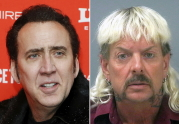
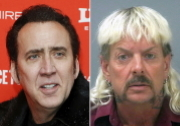
added subsampling

diff --git a/main2.py b/main2.py
@@ -15,14 +15,60 @@ def rgb2yuv(rgb):
     return yuv
 
 
-# step 0 : load image in float values
-image = py.imread('cageSmall.jpeg').astype(np.float)
-print("rgb", image[0][0])
+def chromasubsampling(scheme, yuv):
+    if len(yuv) % 2 != 0 or len(yuv[0]) % 2 != 0:
+        print("dims", len(yuv), len(yuv[0]))
+        print("please use image with even dimensions")
+        exit(1)
+    y = np.zeros((len(yuv), len(yuv[0])))
+    u = np.zeros((len(yuv), len(yuv[0])))
+    v = np.zeros((len(yuv), len(yuv[0])))
+    for i, line in enumerate(yuv):
+        for j, triplet in enumerate(line):
+            y[i][j] = (triplet[0])
+            u[i][j] = (triplet[1])
+            v[i][j] = (triplet[2])
+    print("--")
+    print("u avant", u[0][0], u[0][1], u[0][2], u[0][3], u[0][4], u[0][5], u[0][6], u[0][7])
+    print("u avant", u[1][0], u[1][1], u[1][2], u[1][3], u[1][4], u[1][5], u[1][6], u[1][7])
+    # https://medium.com/@sddkal/chroma-subsampling-in-numpy-47bf2bb5af83
+    if scheme == 420:
+        u[1::2, :] = u[::2, :]
+        u[:, 1::2] = u[:, ::2]
+        v[1::2, :] = v[::2, :]
+        v[:, 1::2] = v[:, ::2]
+    elif scheme == 422:
+        u[:, 1::2] = u[:, ::2]
+        v[:, 1::2] = v[:, ::2]
+    elif scheme == 410:
+        u[1::2, :] = u[::2, :]
+        v[1::2, :] = v[::2, :]
+    elif scheme == 444:
+        print("444 scheme, no subsampling")
+    else:
+        print("wrong value of subsampling scheme")
+        exit(-1)
+    print("u apres", u[0][0], u[0][1], u[0][2], u[0][3], u[0][4], u[0][5], u[0][6], u[0][7])
+    print("u apres", u[1][0], u[1][1], u[1][2], u[1][3], u[1][4], u[1][5], u[1][6], u[1][7])
+    print("--")
+    for i, line in enumerate(yuv):
+        for j, pixel in enumerate(line):
+            yuv[i][j][0] = y[i][j]
+            yuv[i][j][1] = u[i][j]
+            yuv[i][j][2] = v[i][j]
+    return yuv
 
-# step 1 : RGB -> YUV, 4:2:0
-YUV = rgb2yuv(image)
+
+# step 0: load image in float values
+image = py.imread('cageSmall.jpeg')
+print("rgb", image[0][0])
+py.imshow(image)
+py.show()
+
+# step 1.1: RGB -> YUV
+YUV = rgb2yuv(image.astype(np.float))
 print("yuv", YUV[0][0])
 
 
-
-
+# step 1.2: chroma subsampling
+YUV = chromasubsampling(420, YUV)
